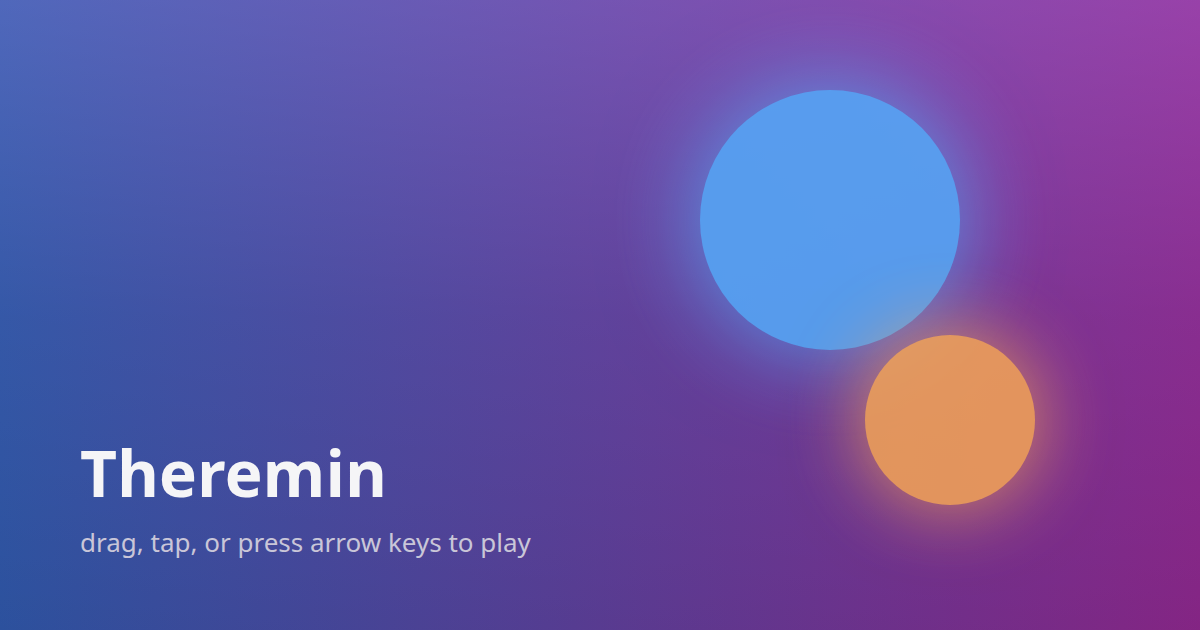
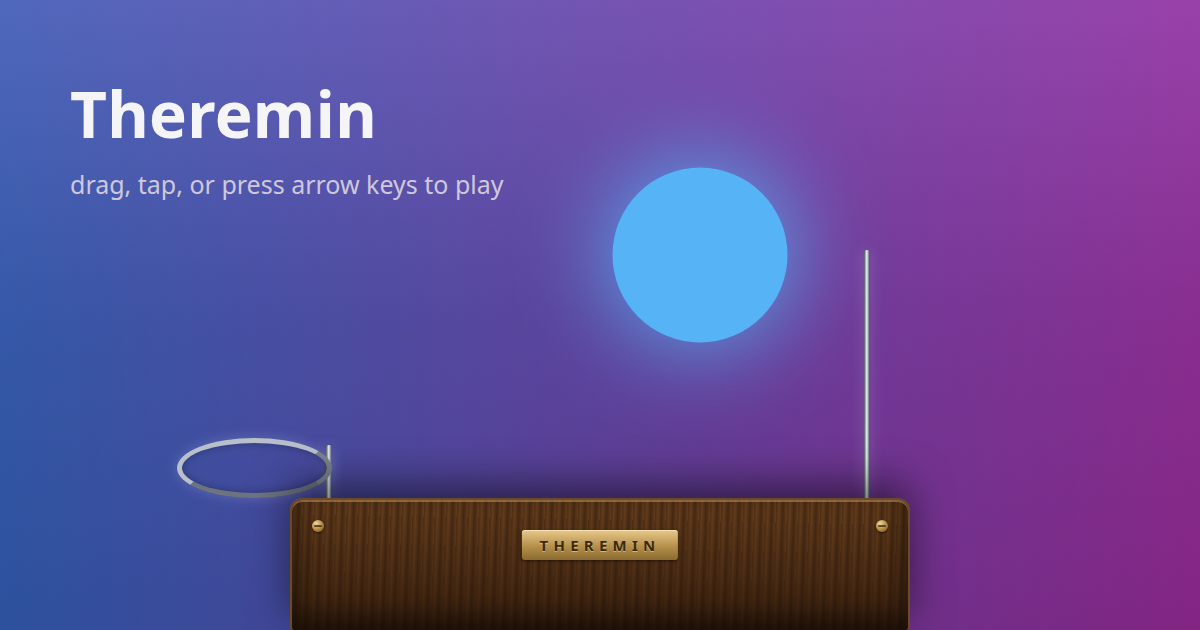
instrument: dress the theremin in its cabinet, add a how-it-works panel
The stage was an abstract gradient — nothing said "theremin" until you
heard it. Draw the instrument behind the play surface: wood cabinet,
pitch rod on the right, volume loop on the left, all decorative and
pointer-transparent so the whole viewport stays one continuous field.

The explanation is a collapsed panel rather than standing copy, so the
first thing a stranger meets is still the instrument, not instructions.

Changed region(s): [[0.0617, 0.0905, 0.8942, 1.0], [0.0617, 0.1206, 0.3083, 0.2413], [0.0617, 0.2714, 0.4317, 0.3317]]

diff --git a/src/styles/global.css b/src/styles/global.css
@@ -11,7 +11,7 @@ body {
 header {
   position: fixed;
   inset: 0 0 auto 0;
-  z-index: 2;
+  z-index: 4;
   padding: 0.5rem 1rem;
   font-size: 0.85rem;
   background: linear-gradient(to bottom, rgba(10, 10, 18, 0.7), transparent);
@@ -78,6 +78,7 @@ main {
   color: rgba(245, 245, 247, 0.85);
   pointer-events: none;
   transition: opacity 0.6s ease;
+  z-index: 2;
 }
 
 #hint[data-faded="true"] {
@@ -93,4 +94,203 @@ main {
   background: hsl(var(--hue, 0), 90%, 65%);
   box-shadow: 0 0 3rem hsl(var(--hue, 0), 90%, 65%);
   pointer-events: none;
+  z-index: 3;
+}
+
+/* --- The cabinet: a theremin drawn behind the play surface ---------------
+   Everything here is decoration. It sits under the glow and never takes
+   pointer events, so the whole viewport stays one continuous play surface. */
+
+#cabinet {
+  --cabinet-height: clamp(74px, 14dvh, 150px);
+  --antenna-height: clamp(150px, 30dvh, 340px);
+  position: absolute;
+  left: 50%;
+  bottom: 0;
+  transform: translateX(-50%);
+  width: clamp(270px, 42vw, 720px);
+  height: calc(var(--cabinet-height) + var(--antenna-height));
+  pointer-events: none;
+  z-index: 1;
+}
+
+.cabinet-body {
+  position: absolute;
+  inset: auto 0 0 0;
+  height: var(--cabinet-height);
+  border-radius: 12px 12px 4px 4px;
+  border: 2px solid #6b4a2a;
+  border-bottom: none;
+  box-shadow:
+    inset 0 2px 0 rgba(214, 168, 110, 0.45),
+    inset 0 -12px 28px rgba(0, 0, 0, 0.55),
+    0 -14px 40px rgba(0, 0, 0, 0.5);
+  background:
+    repeating-linear-gradient(
+      92deg,
+      rgba(58, 32, 14, 0.55) 0px,
+      rgba(94, 56, 26, 0.25) 3px,
+      rgba(48, 26, 11, 0.6) 7px,
+      rgba(84, 49, 22, 0.2) 11px
+    ),
+    linear-gradient(to bottom, #6b421f 0%, #4a2c14 55%, #2e1a0c 100%);
+}
+
+.screw {
+  position: absolute;
+  top: clamp(10px, 3dvh, 22px);
+  width: 12px;
+  height: 12px;
+  border-radius: 50%;
+  background: radial-gradient(circle at 35% 30%, #f0d69a, #a9803a 60%, #6d4c1c);
+  box-shadow: 0 1px 2px rgba(0, 0, 0, 0.6);
+}
+
+.screw::after {
+  content: "";
+  position: absolute;
+  inset: 45% 20%;
+  border-radius: 1px;
+  background: rgba(60, 40, 12, 0.75);
+}
+
+.screw-left {
+  left: clamp(10px, 2vw, 22px);
+}
+
+.screw-right {
+  right: clamp(10px, 2vw, 22px);
+}
+
+.nameplate {
+  position: absolute;
+  left: 50%;
+  top: clamp(14px, 4dvh, 34px);
+  transform: translateX(-50%);
+  padding: 0.3rem 1.1rem;
+  border-radius: 3px;
+  font-size: clamp(0.6rem, 1.6vw, 0.85rem);
+  font-weight: 700;
+  letter-spacing: 0.35em;
+  color: #3a2a10;
+  text-shadow: 0 1px 0 rgba(255, 235, 190, 0.5);
+  background: linear-gradient(to bottom, #e8c98a, #b5904c 55%, #8a6a30);
+  box-shadow:
+    inset 0 1px 0 rgba(255, 245, 215, 0.6),
+    0 1px 3px rgba(0, 0, 0, 0.5);
+}
+
+.antenna {
+  position: absolute;
+  bottom: var(--cabinet-height);
+}
+
+/* Pitch: the vertical rod rising from the right end of the cabinet. */
+.antenna-pitch {
+  right: clamp(18px, 3vw, 44px);
+  width: 6px;
+  height: var(--antenna-height);
+  border-radius: 3px 3px 0 0;
+  background: linear-gradient(
+    to right,
+    #4a4f5a 0%,
+    #c8ced8 35%,
+    #f2f5fa 48%,
+    #99a1ad 70%,
+    #3d424c 100%
+  );
+  box-shadow: 0 0 14px rgba(200, 216, 255, 0.25);
+}
+
+/* Volume: the loop that juts sideways out of the cabinet's left end. */
+.antenna-volume {
+  left: clamp(16px, 3vw, 40px);
+  width: 6px;
+  height: calc(var(--antenna-height) * 0.22);
+  border-radius: 3px 3px 0 0;
+  background: linear-gradient(
+    to right,
+    #4a4f5a 0%,
+    #c8ced8 35%,
+    #f2f5fa 48%,
+    #99a1ad 70%,
+    #3d424c 100%
+  );
+  box-shadow: 0 0 14px rgba(200, 216, 255, 0.25);
+}
+
+.antenna-volume-loop {
+  position: absolute;
+  right: 0;
+  top: -0.4em;
+  width: clamp(62px, 15vw, 170px);
+  height: calc(var(--antenna-height) * 0.2);
+  border: 5px solid #b9c0cc;
+  border-radius: 50%;
+  border-right-color: #7d848f;
+  border-bottom-color: #6d747f;
+  box-shadow:
+    0 0 14px rgba(200, 216, 255, 0.22),
+    inset 0 0 8px rgba(0, 0, 0, 0.3);
+}
+
+/* --- How it works: closed by default, so the first move is still to play -- */
+
+#info-toggle {
+  position: fixed;
+  right: clamp(0.75rem, 2vw, 1.5rem);
+  top: clamp(0.6rem, 1.5vh, 1rem);
+  z-index: 5;
+  padding: 0.5rem 1rem;
+  border: 1px solid #6d4f1c;
+  border-radius: 4px;
+  font: inherit;
+  font-size: 0.8rem;
+  font-weight: 600;
+  letter-spacing: 0.12em;
+  color: #3a2a10;
+  cursor: pointer;
+  background: linear-gradient(to bottom, #e8c98a, #b5904c 55%, #8a6a30);
+  box-shadow:
+    inset 0 1px 0 rgba(255, 245, 215, 0.6),
+    0 2px 6px rgba(0, 0, 0, 0.55);
+}
+
+#info-toggle:hover {
+  background: linear-gradient(to bottom, #f2d79c, #c39d57 55%, #97753a);
+}
+
+#info-toggle:focus-visible {
+  outline: 3px solid #f5d76e;
+  outline-offset: 3px;
+}
+
+#info-panel {
+  position: fixed;
+  right: clamp(0.75rem, 2vw, 1.5rem);
+  top: calc(clamp(0.6rem, 1.5vh, 1rem) + 3rem);
+  z-index: 5;
+  max-width: min(30rem, calc(100vw - 1.5rem));
+  padding: 1.1rem 1.3rem;
+  border: 1px solid #6d4f1c;
+  border-radius: 6px;
+  font-size: 0.9rem;
+  line-height: 1.55;
+  color: #f2e6cf;
+  background: linear-gradient(to bottom, rgba(38, 22, 10, 0.97), rgba(22, 13, 6, 0.97));
+  box-shadow:
+    inset 0 1px 0 rgba(226, 190, 130, 0.3),
+    0 8px 28px rgba(0, 0, 0, 0.6);
+}
+
+#info-panel[hidden] {
+  display: none;
+}
+
+#info-panel p {
+  margin: 0;
+}
+
+#info-panel p + p {
+  margin-top: 0.75rem;
 }

diff --git a/src/scripts/main.ts b/src/scripts/main.ts
@@ -1,5 +1,15 @@
 const stage = document.querySelector<HTMLElement>("#stage");
 const hint = document.querySelector<HTMLElement>("#hint");
+const infoToggle = document.querySelector<HTMLButtonElement>("#info-toggle");
+const infoPanel = document.querySelector<HTMLElement>("#info-panel");
+
+if (infoToggle && infoPanel) {
+  infoToggle.addEventListener("click", () => {
+    const open = infoPanel.hidden;
+    infoPanel.hidden = !open;
+    infoToggle.setAttribute("aria-expanded", String(open));
+  });
+}
 
 if (stage && hint) {
   const hintEl = hint;
